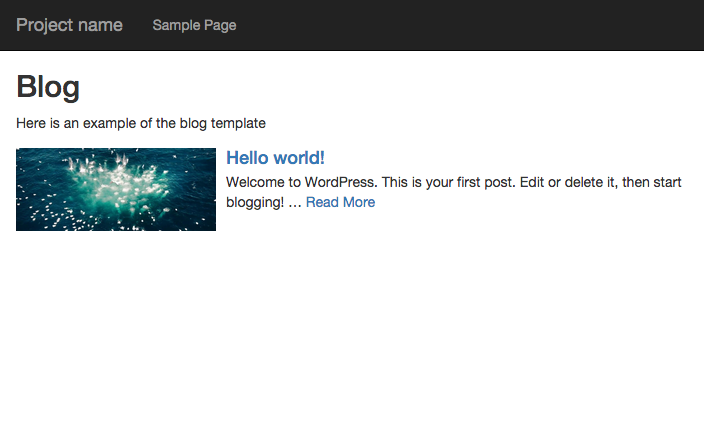
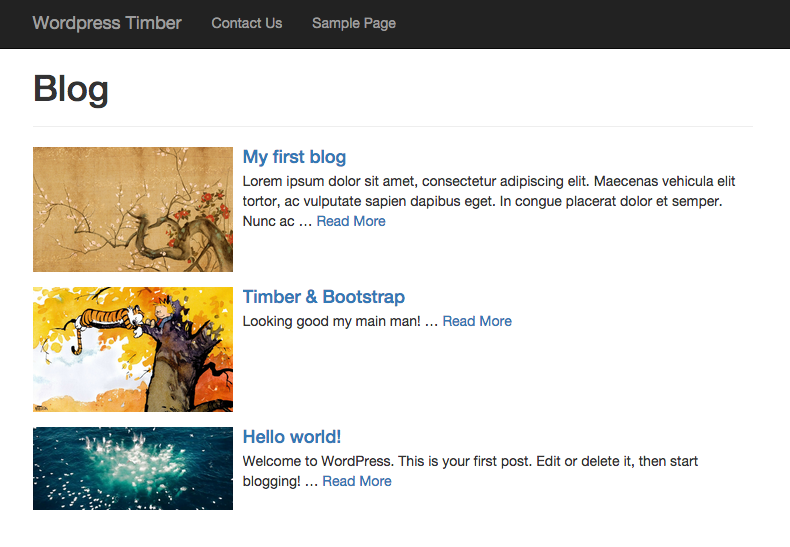
Page and post templates

Changed region(s): [[0.0, 0.2647, 0.9688, 0.9412], [0.0, 0.0294, 1.0, 0.2353], [0.0312, 0.6765, 0.0625, 0.7059]]

diff --git a/modules/blog-post/blog-post.js b/modules/blog-post/blog-post.js
@@ -1,0 +1,11 @@
+/**
+ * @module Blog
+ * @summary module
+ */
+
+/*globals window, document */
+
+(function () {
+    'use strict';
+    console.log('blog');
+}());

diff --git a/modules/page/page.js b/modules/page/page.js
@@ -1,0 +1,11 @@
+/**
+ * @module Page
+ * @summary page
+ */
+
+/*globals window, document */
+
+(function () {
+    'use strict';
+    console.log('page');
+}());

diff --git a/modules/blog-post/blog-post.css b/modules/blog-post/blog-post.css
@@ -1,0 +1,12 @@
+/**
+ * Blog post
+ * @class blog-post
+ */
+
+.blog-post {
+}
+
+.blog-post img {
+    max-width: 100%;
+    height: auto;
+}

diff --git a/modules/page/page.css b/modules/page/page.css
@@ -1,0 +1,12 @@
+/**
+ * Page
+ * @class page
+ */
+
+.page {
+}
+
+.page img {
+    max-width: 100%;
+    height: auto;
+}

diff --git a/modules/app/app.css b/modules/app/app.css
@@ -4,5 +4,5 @@
  */
 
 .app {
-    padding-top: 50px;
+    padding-top: 30px;
 }

diff --git a/index.php b/index.php
@@ -26,9 +26,9 @@ if (is_singular()) {
 
 // switch template based on page type
 if (is_single()) {
-    $template = 'app/app';
+    $template = 'blog-post/blog-post';
 } else if (is_page()) {
-    $template = 'app/app';
+    $template = 'page/page';
 } else if (is_home()) {
     $template = 'blog/blog';
 } else if (is_category()) {
